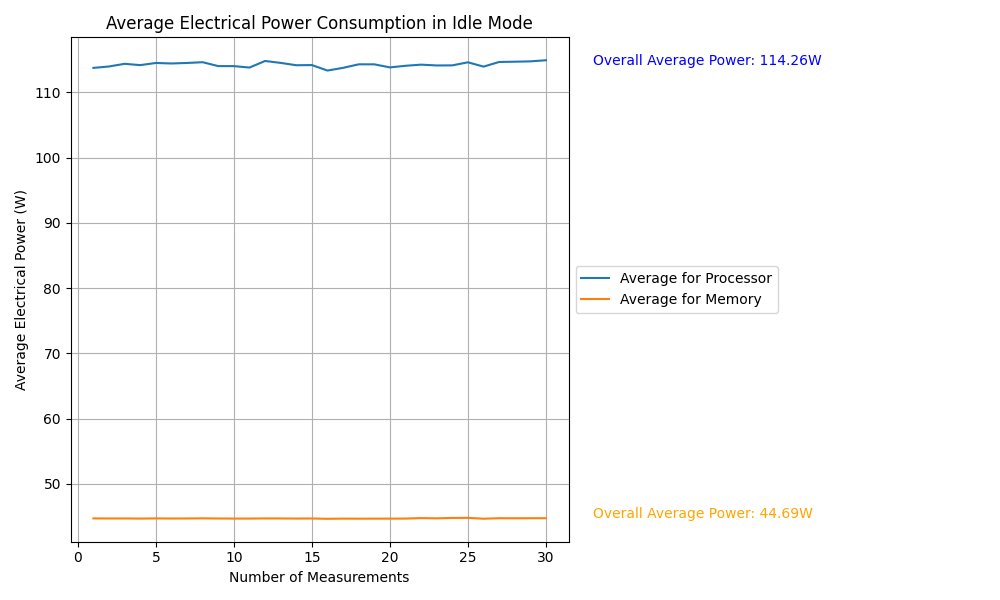
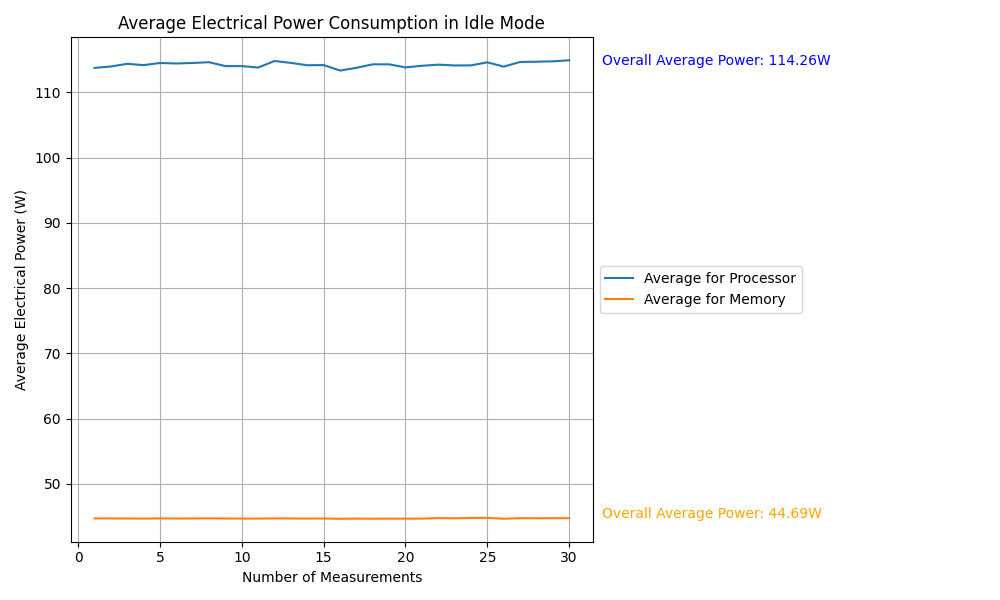
new graph

diff --git a/CpuIntensiveApp/Plot-Data/plot_results_4_test.py b/CpuIntensiveApp/Plot-Data/plot_results_4_test.py
@@ -65,7 +65,7 @@ else:
     plt.grid(True)
 
     # Annotate the average values on the plot
-    x_offset = len(df['data_point']) + 3  # Increase the x position for better visibility
+    x_offset = len(df['data_point']) + 2  # Increase the x position for better visibility
     plt.text(x_offset, avg_pkg, f'Overall Average Power: {avg_pkg:.2f}W', color='blue', fontsize=10, ha='left')
     plt.text(x_offset, avg_dram, f'Overall Average Power: {avg_dram:.2f}W', color='orange', fontsize=10, ha='left')
     
